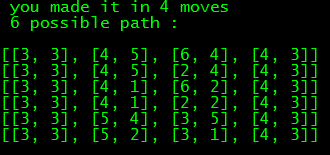
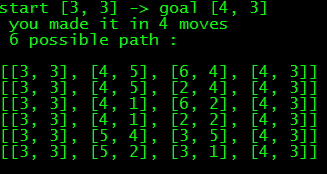
knight

diff --git a/knight/knigh.rb b/knight/knigh.rb
@@ -1,12 +1,13 @@
 class Board
 
   def initialize(size = 7)
-    init_board(7)
+    init_board(size)
   end
 
   def init_board(size,d =5000)
+  @size = size
   @board =   (0..size).map do
-      Array.new(7,d)
+      Array.new(size,d)
     end
 
   end
@@ -16,7 +17,7 @@ class Board
   tab.map do |t|
   x,y =   [t[0] + node[0],t[1] + node[1]]
 
-  [x,y] if (0...7) === x && (0...7) === y
+  [x,y] if (0...@size) === x && (0...@size) === y
 end.compact
 end
 
@@ -34,10 +35,11 @@ end
   paths =  paths.find_all do |path|
       path.length == min_length
       end
-  result(paths,min_length)
+  result(start,goal,paths,min_length)
  end
 
- def result(paths,min_length)
+ def result(start,goal,paths,min_length)
+      puts %Q[start #{start} -> goal #{goal}]
       puts %Q[ you made it in #{min_length} moves \n #{paths.length} possible path :\n\t]
       paths.each do |path|
       print   path
